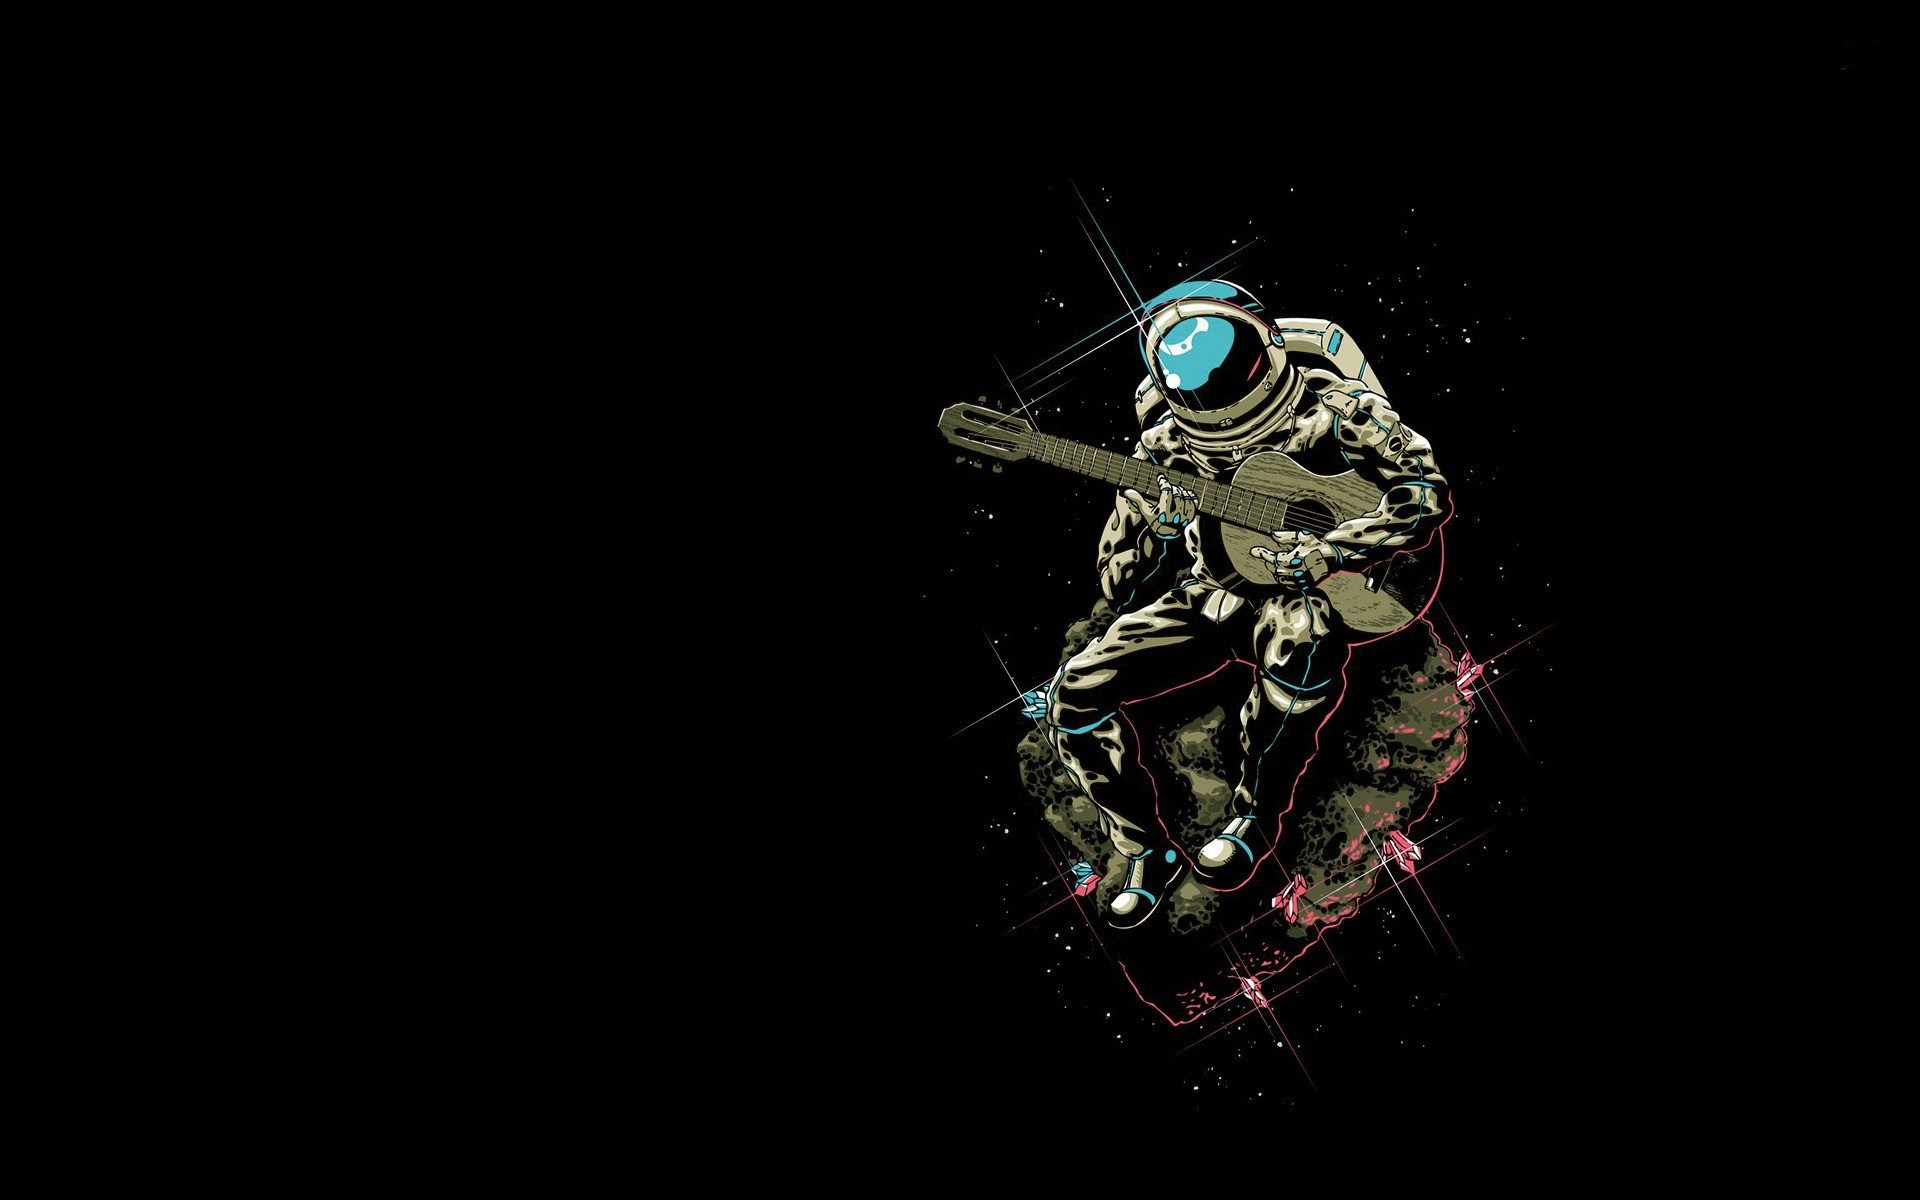
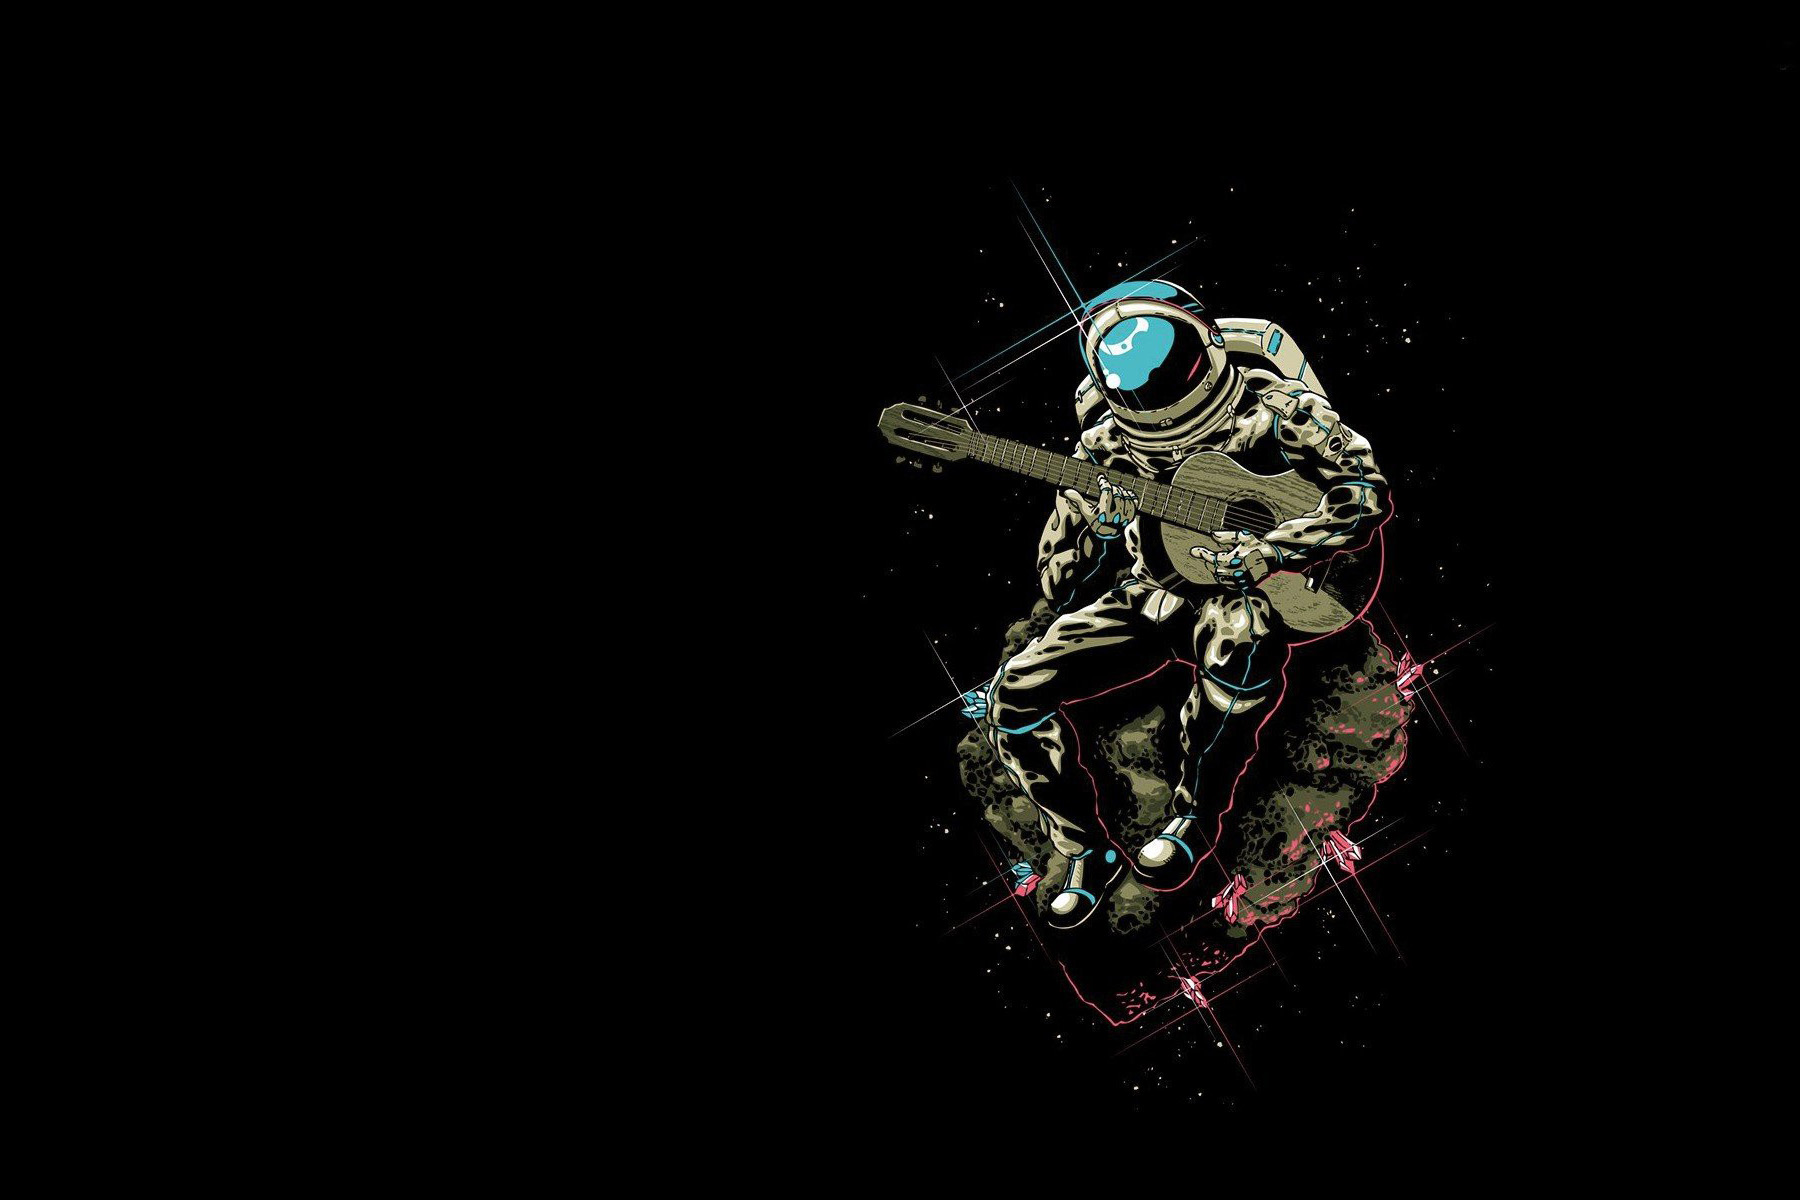
Added optimized backgrounds for other devices, git rm for theme/base.

Changed region(s): [[0.4978, 0.185, 0.8089, 0.8633]]

diff --git a/static/css/HPstyles.css b/static/css/HPstyles.css
@@ -70,7 +70,7 @@ and (orientation : portrait)
         height: 70%;
         width: 100%;
         position: relative;
-        background: url(../img/bg.main.jpg) no-repeat;
+        background: url(../img/bg.main-mini.jpg) no-repeat;
         background-size: 100% 100%;
         z-index: 99999;
         background-color: black;
@@ -86,7 +86,7 @@ and (orientation : landscape) {
         height: 70%;
         width: 100%;
         position: relative;
-        background: url(../img/bg.main.jpg) no-repeat;
+        background: url(../img/bg.main-long.jpg) no-repeat;
         background-size: 100% 100%;
         z-index: 99999;
         background-color: black;
